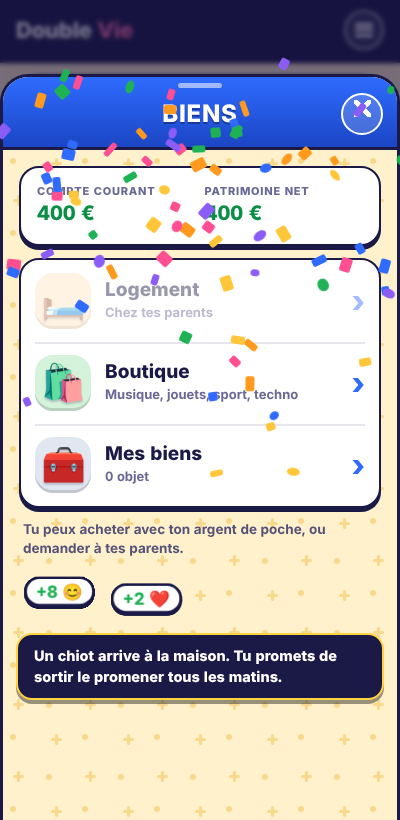
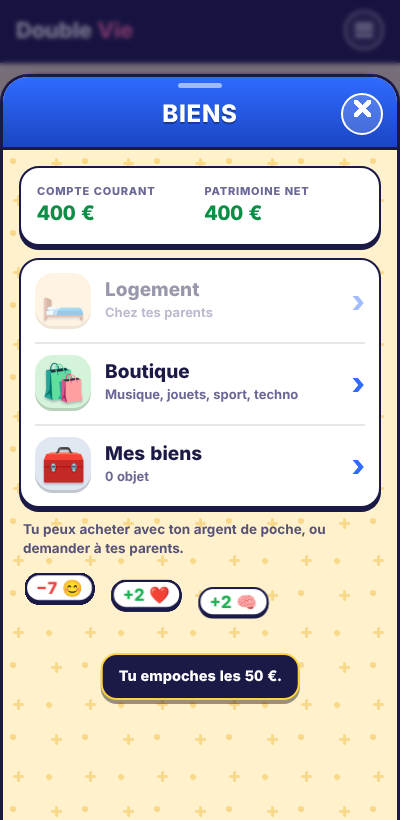
Proches vivants : appels, visites, demandes d'argent, disputes et réconciliations selon la personnalité
- src/mod_agents.js : première version des agents locaux (personnalité stable, relation, dernière rencontre)
- tests/agents.js ; ROADMAP, AUTOPILOT, CHANGELOG mis à jour

Claude-Session: https://claude.ai/code/session_01CQDwTQ4CmPVqdXFXnTa6Uz

diff --git a/app.js b/app.js
@@ -10436,6 +10436,63 @@ registerMod({
 
 ;
 
+/* ===== mod_agents.js ===== */
+/* Deux Vies — module « Proches vivants » (id agents), première version.
+   Chaque année, un proche (parent, frère ou sœur, ami, grand-parent, enfant adulte) agit de lui-même selon sa personnalité,
+   la qualité de votre relation et le temps écoulé depuis votre dernière rencontre : appel, visite, demande d'argent, dispute,
+   réconciliation, reproche, déménagement, nouveau métier. Mémoire par personne : p.seen (âge de votre dernière rencontre), p.act (dernière action). */
+(()=>{
+const MOD='agents';
+const hash=s=>{let h=2166136261;for(const c of String(s)){h^=c.codePointAt(0);h=Math.imul(h,16777619)}return h>>>0};
+/* Personnalité stable, déduite de l'identité du personnage. */
+const pers=p=>{const h=hash(p.id||p.first);return {sociable:h%100,loyal:(h>>>7)%100,impulsif:Math.min(100,Math.round(((p.crazy??40)+((h>>>14)%100))/2))}};
+const eligible=L=>(L.family||[]).filter(p=>p&&p.alive!==false&&p.age>=12&&['parent','sibling','friend','grand','child'].includes(p.type)&&!(p.type==='child'&&p.age<18));
+const em=t=>t;
+function pickWeighted(items){const tot=items.reduce((s,x)=>s+x[1],0);let r=Math.random()*tot;for(const [v,w] of items){r-=w;if(r<=0)return v}return items[items.length-1][0]}
+
+function act(L,p){
+  if(p.seen==null)p.seen=L.age;
+  const S=t=>{say(L,t);return true};
+  const P=pers(p),adult=p.age>=18,gap=L.age-p.seen,close=p.rel>=60;
+  const opts=[['call',3+P.sociable/40],['birthday',1+P.loyal/60]];
+  if(adult&&(p.type==='friend'||p.type==='sibling'||p.type==='parent'||p.type==='grand'))opts.push(['visit',1.5+P.sociable/50]);
+  if(adult&&p.type!=='grand'&&p.type!=='parent'){opts.push(['job',1],['move',.7])}
+  if(adult&&L.money>=600&&p.type!=='grand')opts.push(['money',.8+(close?.5:0)+(P.loyal<40?.4:0)]);
+  if(p.rel<50)opts.push(['fight',.3+P.impulsif/90+(50-p.rel)/80]);
+  if(p.rel<40&&P.loyal>35)opts.push(['peace',2.5]);
+  if(gap>=3&&p.rel<85)opts.push(['neglect',1+gap/3]);
+  const k=pickWeighted(opts);
+  switch(k){
+    case 'call':p.rel=clamp(p.rel+2);p.seen=L.age;return S(`📞 ${p.first} t’appelle pour prendre de tes nouvelles. Vous parlez deux heures.`);
+    case 'birthday':p.rel=clamp(p.rel+2);p.seen=L.age;return S(`🎂 ${p.first} te souhaite ton anniversaire avec un message beaucoup trop long.`);
+    case 'visit':p.rel=clamp(p.rel+3);p.seen=L.age;chg(L,{happy:2});return S(`🚪 ${p.first} passe te voir à l’improviste, avec un gâteau à moitié écrasé.`);
+    case 'job':{const j=pick(NPC_JOBS.filter(x=>x!=='sans emploi'));p.job=j;return S(`🗞 ${p.first} change de métier : ${j}.`)}
+    case 'move':{const c=pick(COUNTRIES[L.country].cities);p.rel=clamp(p.rel-2);return S(`📦 ${p.first} déménage à ${c}. Les week-ends ensemble vont devenir rares.`)}
+    case 'fight':p.rel=clamp(p.rel-10);return S(`💢 ${p.first} s’énerve contre toi après un malentendu. Le ton monte, la porte claque.`);
+    case 'peace':p.rel=clamp(p.rel+10);p.seen=L.age;return S(`🤝 ${p.first} te tend la main après vos mots de travers. Vous vous réconciliez.`);
+    case 'neglect':p.rel=clamp(p.rel-6);return S(`📭 ${p.first} trouve que tu ne donnes plus de nouvelles depuis ${An(gap)}.`);
+    case 'money':{
+      const base=p.type==='friend'?R(100,1500):R(200,3000),amt=Math.max(50,Math.round(base*Math.min(2,costOf(L))/50)*50);
+      if(L.money<amt*2)return S(`📞 ${p.first} aurait voulu te demander un coup de pouce, mais renonce en voyant ta situation.`);
+      modal({title:p.first,icon:'💶',text:`${p.first} (${role(p).toLowerCase()}) te demande ${fmt(amt)} : « Juste un petit coup de pouce, je te rembourse vite. »`,choices:[
+        {t:`Donner ${fmt(amt)}`,fn:()=>{if(L.money<amt)return 'Tu n’as plus assez d’argent.';L.money-=amt;p.rel=clamp(p.rel+8);p.seen=L.age;chg(L,{karma:2});track(L,'given',amt);return out(L,`💶 Tu donnes ${fmt(amt)} à ${p.first}. ${P.loyal>50?'Il y aura un merci, et peut-être un remboursement.':'Tu n’en entendras plus parler.'}`)}},
+        {t:`Prêter la moitié (${fmt(Math.round(amt/2))})`,fn:()=>{const h=Math.round(amt/2);if(L.money<h)return 'Tu n’as plus assez d’argent.';L.money-=h;p.rel=clamp(p.rel+3);return out(L,`💶 Tu prêtes ${fmt(h)} à ${p.first}.`)}},
+        {t:'Refuser poliment',fn:()=>{p.rel=clamp(p.rel-(close?9:5));return out(L,`${p.first} encaisse le refus, un peu vexé${ge(p,'','e')}.`)}}]});
+      return true}
+  }
+}
+function year(L){
+  if(!L||L.age<10||L.prison||L.alive===false)return;
+  const c=eligible(L);if(!c.length||Math.random()>.6)return;
+  const w=c.map(p=>[p,Math.max(.2,(1+p.rel/50)*(p.act!=null&&L.age-p.act<2?.3:1))]);
+  const p=pickWeighted(w);p.act=L.age;
+  try{if(act(L,p))track(L,'agentEvents')}catch(e){console.error(e)}
+}
+registerMod({id:MOD,year});
+})();
+
+;
+
 /* ===== mod_pregnancy.js ===== */
 /* Deux Vies — module « Grossesse » (id pregnancy)
    Remplace la naissance immédiate : test de conception, neuf mois de grossesse (une année de jeu), échographie,
@@ -13234,7 +13291,7 @@ function pBoss(){
     act(L,{ic:'💢',t:'Lui tenir tête en réunion',key:'b_tete',danger:1,fn:L=>{if(chance(.35)){B.rel=clamp(B.rel+5);chg(L,{happy:4});return out(L,'Ton aplomb impressionne.')}B.rel=clamp(B.rel-R(10,18));return out(L,`${B.first} ne te le pardonnera pas de sitôt.`)}})])};
 }
 const wTag=(L,p)=>{const w=p&&p.type!=='pet'?npcWealth(L,p):null;return w&&!w.pocket?` · ≈ ${fmtk(w.cash)}`:''};
-function spendTime(L,p){p.rel=clamp(p.rel+R(3,10));chg(L,{happy:2});return out(L,pick([`Cinéma avec ${p.first}.`,`Longue balade avec ${p.first}.`,`Soirée jeux de société avec ${p.first}.`,`Pique-nique avec ${p.first}.`]))}
+function spendTime(L,p){p.seen=L.age;p.rel=clamp(p.rel+R(3,10));chg(L,{happy:2});return out(L,pick([`Cinéma avec ${p.first}.`,`Longue balade avec ${p.first}.`,`Soirée jeux de société avec ${p.first}.`,`Pique-nique avec ${p.first}.`]))}
 function pRel(){
   const L=cur();let h='';const top=[];
   if(!L.partner&&!L.prison)top.push(act(L,{ic:'💘',t:'Trouver l’amour',s:'Applis, soirées, coups de foudre',min:14,dis:(L.used.love||0)>=4?'Plus de profils cette année':'',fn:L=>{findLove(L)}}));

diff --git a/src/mod_agents.js b/src/mod_agents.js
@@ -1,0 +1,53 @@
+/* Deux Vies — module « Proches vivants » (id agents), première version.
+   Chaque année, un proche (parent, frère ou sœur, ami, grand-parent, enfant adulte) agit de lui-même selon sa personnalité,
+   la qualité de votre relation et le temps écoulé depuis votre dernière rencontre : appel, visite, demande d'argent, dispute,
+   réconciliation, reproche, déménagement, nouveau métier. Mémoire par personne : p.seen (âge de votre dernière rencontre), p.act (dernière action). */
+(()=>{
+const MOD='agents';
+const hash=s=>{let h=2166136261;for(const c of String(s)){h^=c.codePointAt(0);h=Math.imul(h,16777619)}return h>>>0};
+/* Personnalité stable, déduite de l'identité du personnage. */
+const pers=p=>{const h=hash(p.id||p.first);return {sociable:h%100,loyal:(h>>>7)%100,impulsif:Math.min(100,Math.round(((p.crazy??40)+((h>>>14)%100))/2))}};
+const eligible=L=>(L.family||[]).filter(p=>p&&p.alive!==false&&p.age>=12&&['parent','sibling','friend','grand','child'].includes(p.type)&&!(p.type==='child'&&p.age<18));
+const em=t=>t;
+function pickWeighted(items){const tot=items.reduce((s,x)=>s+x[1],0);let r=Math.random()*tot;for(const [v,w] of items){r-=w;if(r<=0)return v}return items[items.length-1][0]}
+
+function act(L,p){
+  if(p.seen==null)p.seen=L.age;
+  const S=t=>{say(L,t);return true};
+  const P=pers(p),adult=p.age>=18,gap=L.age-p.seen,close=p.rel>=60;
+  const opts=[['call',3+P.sociable/40],['birthday',1+P.loyal/60]];
+  if(adult&&(p.type==='friend'||p.type==='sibling'||p.type==='parent'||p.type==='grand'))opts.push(['visit',1.5+P.sociable/50]);
+  if(adult&&p.type!=='grand'&&p.type!=='parent'){opts.push(['job',1],['move',.7])}
+  if(adult&&L.money>=600&&p.type!=='grand')opts.push(['money',.8+(close?.5:0)+(P.loyal<40?.4:0)]);
+  if(p.rel<50)opts.push(['fight',.3+P.impulsif/90+(50-p.rel)/80]);
+  if(p.rel<40&&P.loyal>35)opts.push(['peace',2.5]);
+  if(gap>=3&&p.rel<85)opts.push(['neglect',1+gap/3]);
+  const k=pickWeighted(opts);
+  switch(k){
+    case 'call':p.rel=clamp(p.rel+2);p.seen=L.age;return S(`📞 ${p.first} t’appelle pour prendre de tes nouvelles. Vous parlez deux heures.`);
+    case 'birthday':p.rel=clamp(p.rel+2);p.seen=L.age;return S(`🎂 ${p.first} te souhaite ton anniversaire avec un message beaucoup trop long.`);
+    case 'visit':p.rel=clamp(p.rel+3);p.seen=L.age;chg(L,{happy:2});return S(`🚪 ${p.first} passe te voir à l’improviste, avec un gâteau à moitié écrasé.`);
+    case 'job':{const j=pick(NPC_JOBS.filter(x=>x!=='sans emploi'));p.job=j;return S(`🗞 ${p.first} change de métier : ${j}.`)}
+    case 'move':{const c=pick(COUNTRIES[L.country].cities);p.rel=clamp(p.rel-2);return S(`📦 ${p.first} déménage à ${c}. Les week-ends ensemble vont devenir rares.`)}
+    case 'fight':p.rel=clamp(p.rel-10);return S(`💢 ${p.first} s’énerve contre toi après un malentendu. Le ton monte, la porte claque.`);
+    case 'peace':p.rel=clamp(p.rel+10);p.seen=L.age;return S(`🤝 ${p.first} te tend la main après vos mots de travers. Vous vous réconciliez.`);
+    case 'neglect':p.rel=clamp(p.rel-6);return S(`📭 ${p.first} trouve que tu ne donnes plus de nouvelles depuis ${An(gap)}.`);
+    case 'money':{
+      const base=p.type==='friend'?R(100,1500):R(200,3000),amt=Math.max(50,Math.round(base*Math.min(2,costOf(L))/50)*50);
+      if(L.money<amt*2)return S(`📞 ${p.first} aurait voulu te demander un coup de pouce, mais renonce en voyant ta situation.`);
+      modal({title:p.first,icon:'💶',text:`${p.first} (${role(p).toLowerCase()}) te demande ${fmt(amt)} : « Juste un petit coup de pouce, je te rembourse vite. »`,choices:[
+        {t:`Donner ${fmt(amt)}`,fn:()=>{if(L.money<amt)return 'Tu n’as plus assez d’argent.';L.money-=amt;p.rel=clamp(p.rel+8);p.seen=L.age;chg(L,{karma:2});track(L,'given',amt);return out(L,`💶 Tu donnes ${fmt(amt)} à ${p.first}. ${P.loyal>50?'Il y aura un merci, et peut-être un remboursement.':'Tu n’en entendras plus parler.'}`)}},
+        {t:`Prêter la moitié (${fmt(Math.round(amt/2))})`,fn:()=>{const h=Math.round(amt/2);if(L.money<h)return 'Tu n’as plus assez d’argent.';L.money-=h;p.rel=clamp(p.rel+3);return out(L,`💶 Tu prêtes ${fmt(h)} à ${p.first}.`)}},
+        {t:'Refuser poliment',fn:()=>{p.rel=clamp(p.rel-(close?9:5));return out(L,`${p.first} encaisse le refus, un peu vexé${ge(p,'','e')}.`)}}]});
+      return true}
+  }
+}
+function year(L){
+  if(!L||L.age<10||L.prison||L.alive===false)return;
+  const c=eligible(L);if(!c.length||Math.random()>.6)return;
+  const w=c.map(p=>[p,Math.max(.2,(1+p.rel/50)*(p.act!=null&&L.age-p.act<2?.3:1))]);
+  const p=pickWeighted(w);p.act=L.age;
+  try{if(act(L,p))track(L,'agentEvents')}catch(e){console.error(e)}
+}
+registerMod({id:MOD,year});
+})();

diff --git a/tests/agents.js b/tests/agents.js
@@ -1,0 +1,23 @@
+/* Proches vivants : actions autonomes des proches, demandes d'argent, mémoire de la dernière rencontre. */
+const {chromium}=require(require('child_process').execSync('npm root -g').toString().trim()+'/playwright');
+const fs=require('fs');const dir='src';
+(async()=>{const b=await chromium.launch();
+ const h=fs.readFileSync(dir+'/deux-vies.html','utf8');fs.writeFileSync(dir+'/shot.html','<!doctype html><html><head><meta charset="utf-8"><style>[hidden]{display:none!important}body{margin:0}</style></head><body>'+h+'</body></html>');
+ const pg=await b.newPage({viewport:{width:390,height:844}});await pg.route('**/fonts.g*/**',r=>r.abort());const errs=[];pg.on('pageerror',e=>errs.push(e.message));
+ await pg.goto('file://'+process.cwd()+'/'+dir+'/shot.html');await pg.evaluate(()=>{try{localStorage.clear()}catch(e){}});await pg.reload();await pg.click('[data-mode="1"]');await pg.click('#goBtn');
+ const r=await pg.evaluate(()=>{
+  const out={lives:0,events:0,asks:0,badMoney:0,kinds:{}};
+  const drain=()=>{let k=0;while(curM&&k++<40){const c=curM.choices;if(c&&c.length){if(/te demande/.test(curM.text||'')){out.asks++;const m0=cur().money;chooseM(Math.floor(Math.random()*c.length));if(cur().money<0&&m0>=0)out.badMoney++}else chooseM(Math.floor(Math.random()*c.length))}else endModal('')}};
+  for(let i=0;i<14;i++){
+    const L=makeLife({first:'A'+i,last:'Z'});G.players=[L];G.turn=0;out.lives++;
+    while(L.age<55&&L.alive){ageUp();drain()}
+    out.events+=(L.tr.agentEvents||0);
+    for(const b of L.log)for(const x of b.lines){const m=x.match(/^(📞|🎂|🚪|🗞|📦|💢|🤝|📭|💶)/);if(m)out.kinds[m[1]]=(out.kinds[m[1]]||0)+1}
+  }
+  out.perLife=Math.round(out.events/out.lives*10)/10;
+  // mémoire : passer du temps met à jour la dernière rencontre
+  const L2=makeLife({first:'B',last:'Z'});G.players=[L2];G.turn=0;while(L2.age<20){ageUp();drain()}
+  const p=L2.family.find(x=>x.alive&&x.type==='parent');p.seen=1;spendTime(L2,p);out.seen=p.seen===L2.age;
+  return out});
+ r.ok=!errs.length&&r.events>=40&&r.badMoney===0&&r.seen&&Object.keys(r.kinds).length>=5;
+ console.log(JSON.stringify(r));console.log('errs',JSON.stringify(errs));await b.close()})();

diff --git a/index.html b/index.html
@@ -472,7 +472,7 @@ details.led-wrap>summary small{display:block;color:var(--muted);font-weight:700;
 </div>
 
 <div id="toast" class="toast" hidden></div>
-<script>window.DV_VERSION='20261021-232751';window.DV_NEWS=["Souvenirs : le jeu retient tes grands moments (mariage, naissance, diplôme, promotion, deuil, rupture) et y repense 5, 10, 15… ans plus tard ; l'album est dans ta fiche personnage.", "Défis et chirurgien esthétique : listes plus courtes, détail à la demande.", "Rêves de vie : à 12, 25 et 40 ans, choisis ce qui compte pour toi (millionnaire, grande famille, tour du monde…). Ta progression est dans la fiche personnage, chaque rêve réalisé te rend heureux et compte dans ton bilan.", "Création du personnage : choisis un trait de caractère (Optimiste, Bosseur, Génie…) ou laisse le hasard."]</script>
+<script>window.DV_VERSION='20261021-234052';window.DV_NEWS=["Tes proches vivent aussi : chaque année, un parent, un ami, un frère ou une sœur peut t'appeler, passer te voir, te demander de l'argent, se fâcher, se réconcilier ou se plaindre que tu ne donnes plus de nouvelles, selon sa…", "Souvenirs : le jeu retient tes grands moments (mariage, naissance, diplôme, promotion, deuil, rupture) et y repense 5, 10, 15… ans plus tard ; l'album est dans ta fiche personnage.", "Défis et chirurgien esthétique : listes plus courtes, détail à la demande.", "Rêves de vie : à 12, 25 et 40 ans, choisis ce qui compte pour toi (millionnaire, grande famille, tour du monde…). Ta progression est dans la fiche personnage, chaque rêve réalisé te rend heureux et compte dans ton bilan."]</script>
 <script src="app.js"></script>
 <script>if('serviceWorker' in navigator){const had=!!navigator.serviceWorker.controller;let rl=0;navigator.serviceWorker.addEventListener('controllerchange',()=>{if(had&&!rl){rl=1;location.reload()}});window.addEventListener('load',()=>{navigator.serviceWorker.register('sw.js',{updateViaCache:'none'}).then(r=>{r.update().catch(()=>{});setInterval(()=>r.update().catch(()=>{}),600000)}).catch(()=>{})})}</script>
 </body>

diff --git a/src/ui.js b/src/ui.js
@@ -530,7 +530,7 @@ function pBoss(){
     act(L,{ic:'💢',t:'Lui tenir tête en réunion',key:'b_tete',danger:1,fn:L=>{if(chance(.35)){B.rel=clamp(B.rel+5);chg(L,{happy:4});return out(L,'Ton aplomb impressionne.')}B.rel=clamp(B.rel-R(10,18));return out(L,`${B.first} ne te le pardonnera pas de sitôt.`)}})])};
 }
 const wTag=(L,p)=>{const w=p&&p.type!=='pet'?npcWealth(L,p):null;return w&&!w.pocket?` · ≈ ${fmtk(w.cash)}`:''};
-function spendTime(L,p){p.rel=clamp(p.rel+R(3,10));chg(L,{happy:2});return out(L,pick([`Cinéma avec ${p.first}.`,`Longue balade avec ${p.first}.`,`Soirée jeux de société avec ${p.first}.`,`Pique-nique avec ${p.first}.`]))}
+function spendTime(L,p){p.seen=L.age;p.rel=clamp(p.rel+R(3,10));chg(L,{happy:2});return out(L,pick([`Cinéma avec ${p.first}.`,`Longue balade avec ${p.first}.`,`Soirée jeux de société avec ${p.first}.`,`Pique-nique avec ${p.first}.`]))}
 function pRel(){
   const L=cur();let h='';const top=[];
   if(!L.partner&&!L.prison)top.push(act(L,{ic:'💘',t:'Trouver l’amour',s:'Applis, soirées, coups de foudre',min:14,dis:(L.used.love||0)>=4?'Plus de profils cette année':'',fn:L=>{findLove(L)}}));

diff --git a/sw.js b/sw.js
@@ -1,5 +1,5 @@
 /* Double Vie — service worker : hors connexion + mises à jour automatiques. */
-const VERSION='20261021-232751';
+const VERSION='20261021-234052';
 const CACHE='double-vie-'+VERSION;
 const FILES=["./", "index.html", "app.js", "manifest.webmanifest", "icon-192.png", "icon-512.png", "icon-maskable-512.png", "apple-touch-icon.png"];
 self.addEventListener('install',e=>{e.waitUntil(caches.open(CACHE).then(c=>Promise.all(FILES.map(f=>fetch(new Request(f,{cache:'reload'})).then(r=>{if(!r.ok)throw new Error(f);return c.put(f,r)})))).then(()=>self.skipWaiting()))});

diff --git a/tests/run_all.js b/tests/run_all.js
@@ -14,6 +14,7 @@ const T=[
  ['matériel et compétences','geartest.js',[],o=>/errs \[\]/.test(o)],
  ['effets (animations, sons, réglages)','fx.js',[],o=>/"ok":true/.test(o)],
  ['simplicité (idées rapides, éléments masqués, récents)','simplicity.js',[],o=>/"ok":true/.test(o)],
+ ['proches vivants (agents)','agents.js',[],o=>/"ok":true/.test(o)],
  ['souvenirs et rappels','memory.js',[],o=>/"ok":true/.test(o)],
  ['rêves de vie','dreams.js',[],o=>/"ok":true/.test(o)],
  ['trait choisi à la création','traits.js',[],o=>/"ok":true/.test(o)],

diff --git a/src/deux-vies.html b/src/deux-vies.html
@@ -481,6 +481,7 @@ details.led-wrap>summary small{display:block;color:var(--muted);font-weight:700;
 <script src="mod_traits.js"></script>
 <script src="mod_dreams.js"></script>
 <script src="mod_memory.js"></script>
+<script src="mod_agents.js"></script>
 <script src="mod_pregnancy.js"></script>
 <script src="mod_couple.js"></script>
 <script src="mod_extras.js"></script>

diff --git a/AUTOPILOT.md b/AUTOPILOT.md
@@ -4,7 +4,7 @@ Tu es Claude, chargé de faire avancer Double Vie pendant que le propriétaire e
 
 ## Règles
 1. **Dépôt** : travailler uniquement dans `Cado-cell/double-vie`. Ne rien toucher dans les autres dépôts. Ne jamais écrire de secret dans le code.
-2. **Choix du lot** : prendre dans `ROADMAP.md` le premier chantier non coché dans l'ordre des « Vagues » (section 5). Un lot = un chantier ou une partie cohérente d'un chantier (≤ 1 séance). État au 21/10 : faits S1 à S7, 11, 13, 15, 17a, 20, 21, 22, « Rêves de vie » et « Souvenirs » ; restent #23 (textes plus simples : immobilier, entreprise, autres extensions), #17b, puis Vague 2 (personnalité cachée, 2b personnages vivants), Vague 3 et suivantes.
+2. **Choix du lot** : prendre dans `ROADMAP.md` le premier chantier non coché dans l'ordre des « Vagues » (section 5). Un lot = un chantier ou une partie cohérente d'un chantier (≤ 1 séance). État au 21/10 : faits S1 à S7, 11, 13, 15, 17a, 20, 21, 22, « Rêves de vie » et « Souvenirs » ; restent #23 (textes plus simples : immobilier, entreprise, autres extensions), #17b, puis Vague 2 (personnalité cachée, suite de 2b : la première version des proches vivants est faite dans `src/mod_agents.js`), Vague 3 et suivantes.
 3. **Plafond** : un seul lot par séance, pas d'équipe d'agents, pas de relecture en parallèle. Si le lot s'annonce plus gros, le découper, cocher la partie faite et noter le reste dans `ROADMAP.md`.
 4. **Qualité** : depuis la racine, construire (`python3 tools/build_pwa.py && node tools/make_icons.js`), puis `node tests/run_all.js` (environ 6 minutes : le lancer en arrière-plan et attendre la fin ; ne pas modifier `src/` pendant ce temps). Ajouter un test si le lot ajoute une règle de jeu. **Ne publier que si tout passe.** Ne jamais désactiver ni contourner un test.
 5. **Publication** : `python3 tools/build_pwa.py --publish`, mettre à jour `CHANGELOG.md` (une phrase simple en français, ce que le joueur voit), cocher la case dans `ROADMAP.md`, puis `git add -A && git commit`, `git fetch origin main` (si le dépôt a avancé : `git pull --rebase origin main`) et `git push origin main`.

diff --git a/ROADMAP.md b/ROADMAP.md
@@ -104,7 +104,7 @@
   - **Arcs sur plusieurs années** (chaînes 3 à 6 étapes avec bifurcations réelles) ; objectif : passer de 52 à 200 chaînes.
   - **Rêves / objectifs de vie** (comme les aspirations des Sims) : choisis 1 à 3 rêves, jauge de satisfaction, regrets à la fin.
   - **Personnalité cachée** (traits qui influencent les probabilités et les options proposées, récompense de la cohérence façon Alter Ego).
-- [ ] **2b. Personnages vivants — agents locaux** *(impact : 5/5, s'appuie sur 2 et prépare 1 et 4 ; fonctionne hors connexion, gratuit, testable ; concerne les personnages de TA vie, pas le multijoueur)*
+- [ ] **2b. Personnages vivants — agents locaux** *(première version faite le 21/10 : chaque année un proche agit de lui-même — appel, visite, anniversaire, demande d'argent avec choix, dispute, réconciliation, reproche s'il n'y a plus de nouvelles depuis 3 ans, déménagement, nouveau métier — selon sa personnalité stable, votre relation et la dernière rencontre ; reste : mémoire détaillée des actes, buts propres, rumeurs, dialogues, héritage modifié, personnage échangé)* *(impact : 5/5, s'appuie sur 2 et prépare 1 et 4 ; fonctionne hors connexion, gratuit, testable ; concerne les personnages de TA vie, pas le multijoueur)*
   - **Fiche de personnalité** par personnage (extraversion, gentillesse, ambition, impulsivité, loyauté, humour) + **buts** (carrière, famille, argent, aventure) + **humeur**.
   - **Mémoire** : chaque personnage retient ce que tu lui as fait (cadeau, trahison, oubli d'anniversaire, aide) avec un poids qui s'estompe ; **opinions** envers chaque personne (affection, respect, jalousie).
   - **Cycle annuel autonome** : chaque personnage choisit une action d'après sa personnalité, ses buts et ses opinions (te rappeler, demander de l'argent, se brouiller, se marier, déménager, te déshériter…) ; ce qui te concerne devient un événement, le reste alimente l'arbre familial et les rumeurs.

diff --git a/CHANGELOG.md b/CHANGELOG.md
@@ -3,6 +3,7 @@
 Chaque version publiée est numérotée par sa date de construction (visible en bas du Menu du jeu).
 
 ## 21/10/2026 (nuit)
+- Tes proches vivent aussi : chaque année, un parent, un ami, un frère ou une sœur peut t'appeler, passer te voir, te demander de l'argent, se fâcher, se réconcilier ou se plaindre que tu ne donnes plus de nouvelles, selon sa personnalité et votre relation.
 - Souvenirs : le jeu retient tes grands moments (mariage, naissance, diplôme, promotion, deuil, rupture) et y repense 5, 10, 15… ans plus tard ; l'album est dans ta fiche personnage.
 - Défis et chirurgien esthétique : listes plus courtes, détail à la demande.
 - Rêves de vie : à 12, 25 et 40 ans, choisis ce qui compte pour toi (millionnaire, grande famille, tour du monde…). Ta progression est dans la fiche personnage, chaque rêve réalisé te rend heureux et compte dans ton bilan.
